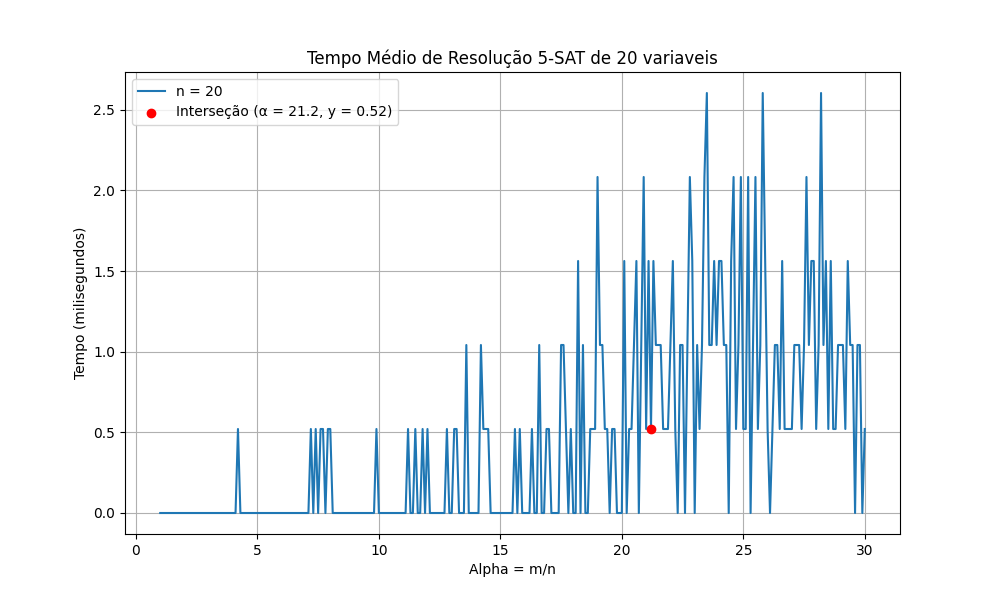
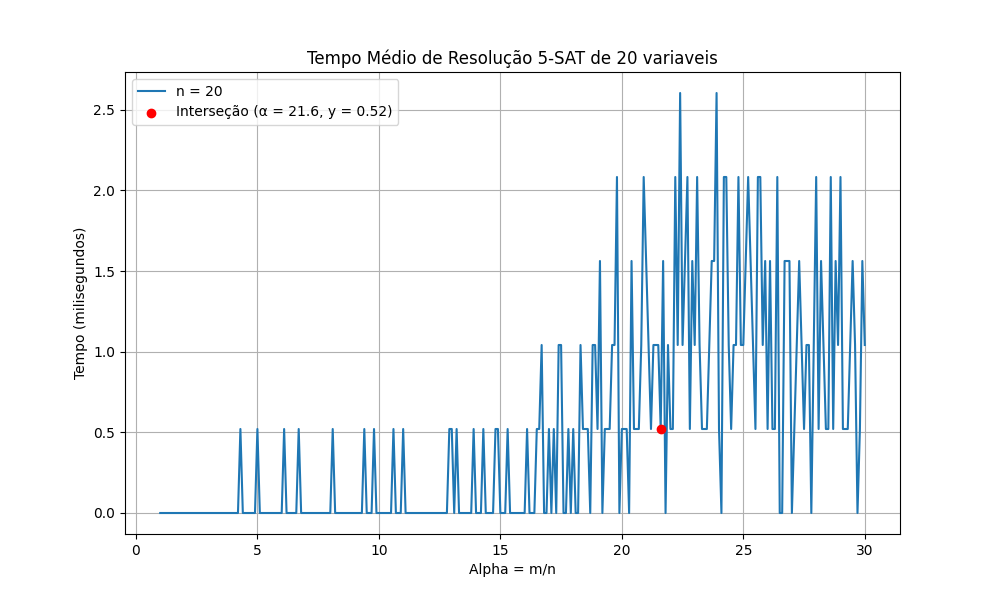
final code and final graph

Changed region(s): [[0.217, 0.18, 0.868, 0.87], [0.31, 0.18, 0.341, 0.21]]

diff --git a/src/main2.py b/src/main2.py
@@ -1,0 +1,136 @@
+from pysat.solvers import Glucose4
+import matplotlib.pyplot as plt
+import random
+import time 
+
+
+def gerar_clausulas(n: int, m: int, k: int):
+    clausulas = []
+
+    while len(clausulas) < m:
+        literais = sorted(random.sample(range(1, n+1), k))
+        clausula = []
+
+        for literal in literais:
+            isPositive = random.choice([True, False])
+            if isPositive:
+                clausula.append(literal)
+            else:
+                clausula.append(-literal)
+
+        if clausula not in clausulas:
+            clausulas.append(clausula)
+
+    return clausulas
+
+
+def solver_clausulas(clausulas: list[int]):
+    solver = Glucose4(use_timer=True)
+
+    for clausula in clausulas:
+        solver.add_clause(clausula)
+
+    isSatisfazivel = solver.solve()
+    tempo = solver.time()*1000
+
+    return isSatisfazivel, tempo
+
+def encontrar_ponto_critico(alphas, probabilidades):
+    for i in range(len(probabilidades)):
+        if probabilidades[i] < 0.5:
+            return alphas[i]
+    return None
+
+def transicao_fase(alpha_max, k, variaveis, instancias):
+    resultados = {n: {"alphas": [], "probabilidades": [], "tempos": []}
+                  for n in variaveis}
+
+    alpha_inicial = 1.0
+    print(f'k:{k}')
+    
+    tempo_total_k = 0.0  # Tempo total para o k-SAT atual
+
+    while alpha_inicial <= alpha_max:
+        print(f'alpha:{alpha_inicial}')
+        for n in variaveis:
+            m = alpha_inicial * n
+            satisfaziveis = 0
+            tempo_total = 0.0
+
+            print(f'variaveis:{n}')
+            for _ in range(instancias):
+                clausulas = gerar_clausulas(n, m, k)
+                isSatisfazivel, tempo = solver_clausulas(clausulas)
+
+                tempo_total += tempo
+                tempo_total_k += tempo  # Acumular o tempo total para o k-SAT
+
+                if isSatisfazivel:
+                    satisfaziveis += 1
+
+            resultados[n]["alphas"].append(round(alpha_inicial, 1))
+            resultados[n]["probabilidades"].append(satisfaziveis / instancias)
+            resultados[n]["tempos"].append(tempo_total / instancias)
+
+        alpha_inicial = round(alpha_inicial + 0.1, 1)
+
+    for n, dados in resultados.items():
+        ponto_critico = encontrar_ponto_critico(
+            dados["alphas"], dados["probabilidades"])
+
+        gerar_grafico(
+            dados["alphas"], dados["probabilidades"], n,
+            f"Probabilidade de Satisfazibilidade Pelo Alpha {k}-SAT de {n} variaveis ",
+            "Alpha = m/n", "Probabilidade", f"probabilidade {n} {k}-SAT de {n} variaveis ", ponto_critico
+        )
+
+        gerar_grafico(
+            dados["alphas"], dados["tempos"], n,
+            f"Tempo Médio de Resolução {k}-SAT de {n} variaveis",
+            "Alpha = m/n", "Tempo (milisegundos)", f"tempo {n} {k}-SAT de {n} variaveis", ponto_critico
+        )
+
+    return tempo_total_k
+
+
+def gerar_grafico(x, y, n, title, xlabel, ylabel, name_img, ponto_critico=None):
+    plt.figure(figsize=(10, 6))
+    plt.plot(x, y, label=f"n = {n}")
+
+    if ponto_critico is not None:
+
+        y_critico = None
+        for i in range(len(x)):
+            if x[i] >= ponto_critico:
+                y_critico = y[i]
+                break
+
+        if y_critico is not None:
+            plt.scatter(ponto_critico, y_critico, color='red', zorder=5, label=f'Interseção (α = {ponto_critico}, y = {y_critico:.2f})')
+
+    plt.title(title)
+    plt.xlabel(xlabel)
+    plt.ylabel(ylabel)
+    plt.grid(True)
+    plt.legend()
+    plt.savefig(f"{name_img}.png")
+    plt.close()
+
+n = [[50, 100, 150, 200],[20, 30, 40, 50]]
+instancias = 30
+alpha = [10,30]
+k_sat = [3,5]
+
+
+inicio_total = time.time()
+
+tempo_3sat = transicao_fase(alpha[0], k_sat[0], n[0], instancias)
+tempo_5sat = transicao_fase(alpha[1], k_sat[1], n[1], instancias)
+
+fim_total = time.time()
+tempo_total = fim_total - inicio_total
+
+# Imprimir os tempos de execução
+print(f"Tempo total para 3-SAT: {tempo_3sat / 1000:.2f} segundos")
+print(f"Tempo total para 5-SAT: {tempo_5sat / 1000:.2f} segundos")
+print(f"Tempo total combinado: {tempo_total:.2f} segundos")

diff --git a/src/sobrepostof.py b/src/sobrepostof.py
@@ -1,0 +1,110 @@
+from pysat.solvers import Glucose4
+import matplotlib.pyplot as plt
+import random
+
+def gerar_clausulas(n, m, k):
+    clausulas = []
+
+    while len(clausulas) < m:
+        literais = sorted(random.sample(range(1, n+1), k))
+        clausula = []
+
+        for literal in literais:
+            isPositive = random.choice([True, False])
+            if isPositive:
+                clausula.append(literal)
+            else:
+                clausula.append(-literal)
+
+        if clausula not in clausulas:
+            clausulas.append(clausula)
+
+    return clausulas
+
+def solver_clausulas(clausulas):
+    solver = Glucose4(use_timer=True)
+
+    for clausula in clausulas:
+        solver.add_clause(clausula)
+
+    isSatisfazivel = solver.solve()
+    tempo = solver.time() * 1000  # Convertendo para milissegundos
+
+    return isSatisfazivel, tempo
+
+def encontrar_ponto_critico(alphas, probabilidades):
+    for i in range(len(probabilidades)):
+        if probabilidades[i] < 0.5:
+            return alphas[i]
+    return None
+
+def transicao_fase(alpha_max, k, variaveis, instancias):
+    resultados = {n: {"alphas": [], "probabilidades": [], "tempos": []}
+                  for n in variaveis}
+
+    alpha_inicial = 1.0
+    print(f'k: {k}')
+    while alpha_inicial <= alpha_max:
+        print(f'alpha: {alpha_inicial}')
+        for n in variaveis:
+            m = int(alpha_inicial * n)  # Garantindo que m seja inteiro
+            satisfaziveis = 0
+            tempo_total = 0.0
+
+            print(f'variáveis: {n}')
+            for _ in range(instancias):
+                clausulas = gerar_clausulas(n, m, k)
+                isSatisfazivel, tempo = solver_clausulas(clausulas)
+
+                tempo_total += tempo
+
+                if isSatisfazivel:
+                    satisfaziveis += 1
+
+            resultados[n]["alphas"].append(round(alpha_inicial, 1))
+            resultados[n]["probabilidades"].append(satisfaziveis / instancias)
+            resultados[n]["tempos"].append(tempo_total / instancias)
+
+        alpha_inicial = round(alpha_inicial + 0.1, 1)
+
+    # Gerar gráficos separados para probabilidade e tempo
+    gerar_grafico_probabilidade(resultados, k, "Probabilidade de Satisfazibilidade", "Alpha = m/n", "Probabilidade", f"probabilidade_{k}-SAT")
+    gerar_grafico_tempo(resultados, k, "Tempo Médio de Resolução", "Alpha = m/n", "Tempo (milisegundos)", f"tempo_{k}-SAT")
+
+def gerar_grafico_probabilidade(resultados, k, title, xlabel, ylabel, name_img):
+    plt.figure(figsize=(10, 6))
+    
+    for n, dados in resultados.items():
+        plt.plot(dados["alphas"], dados["probabilidades"], label=f"n = {n}")
+
+    plt.title(title)
+    plt.xlabel(xlabel)
+    plt.ylabel(ylabel)
+    plt.grid(True)
+    plt.legend()
+    plt.savefig(f"{name_img}.png")
+    plt.close()
+
+def gerar_grafico_tempo(resultados, k, title, xlabel, ylabel, name_img):
+    plt.figure(figsize=(10, 6))
+    
+    for n, dados in resultados.items():
+        plt.plot(dados["alphas"], dados["tempos"], label=f"n = {n}")
+
+    plt.title(title)
+    plt.xlabel(xlabel)
+    plt.ylabel(ylabel)
+    plt.grid(True)
+    plt.legend()
+    plt.savefig(f"{name_img}.png")
+    plt.close()
+
+
+n = [[50, 100, 150, 200],[20, 30, 40, 50]]
+instancias = 30
+alpha = [10,30]
+k_sat = [3,5]
+
+
+transicao_fase(alpha[0], k_sat[0], n[0], instancias)
+transicao_fase(alpha[1], k_sat[1], n[1], instancias)
